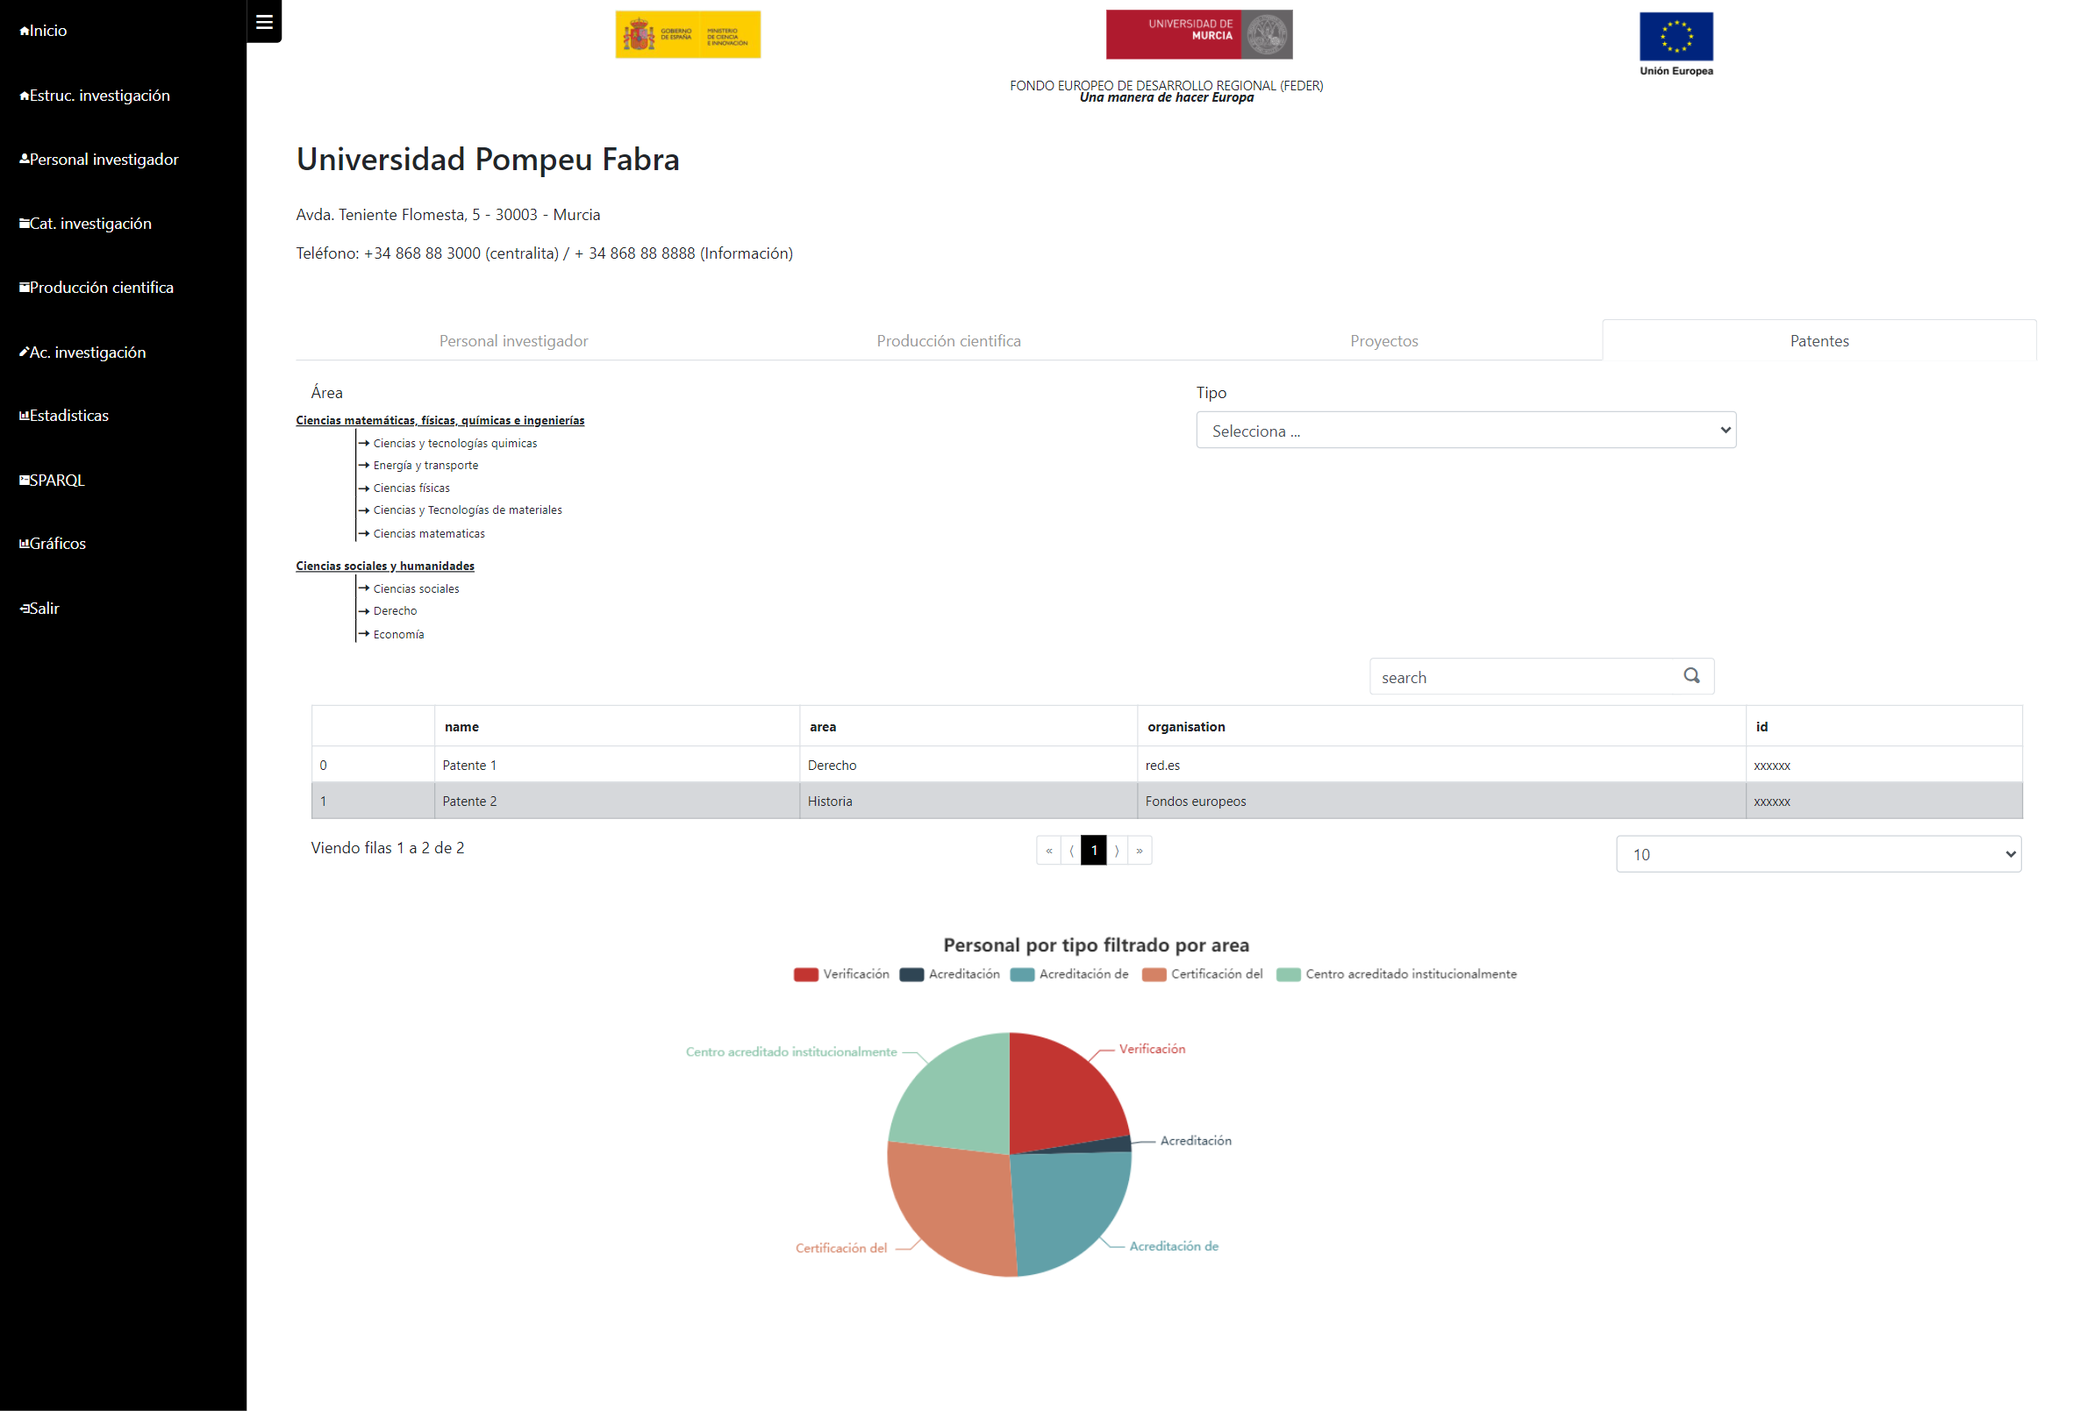
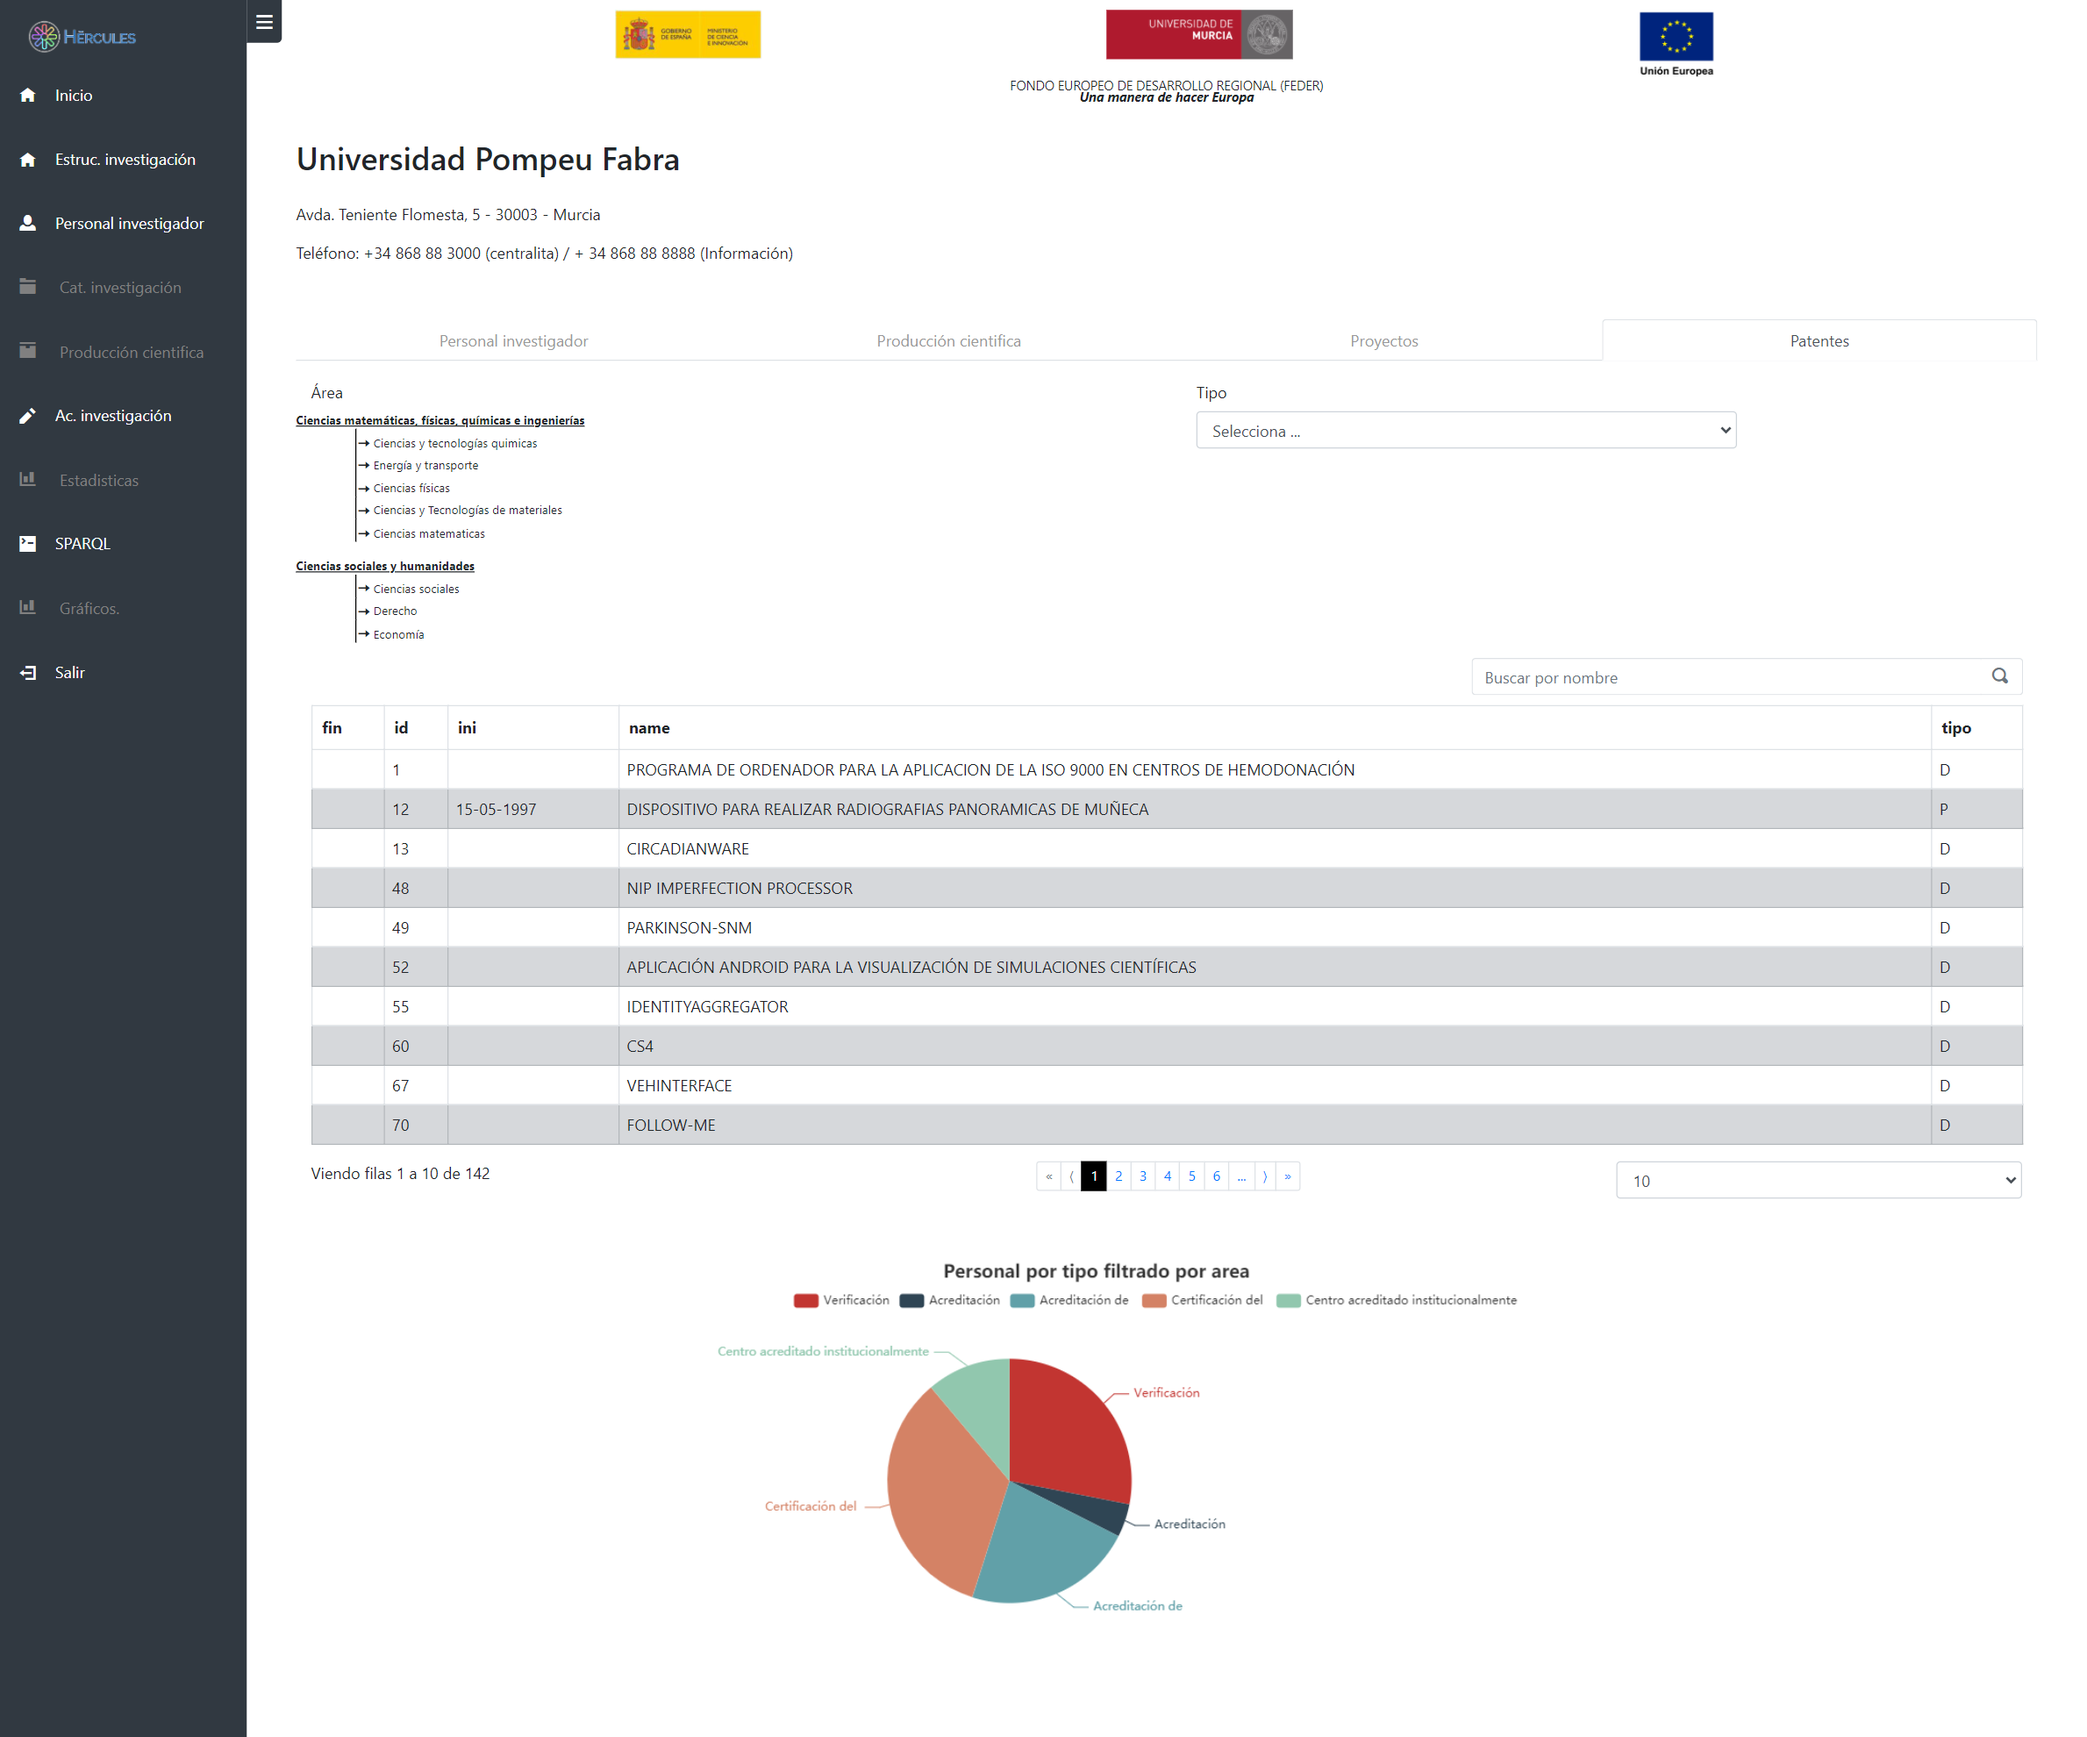
[SEMANTMURC-427] Actualizar docs con las nuevas capturas Capturas de pantallas de estructuras de investigación realizadas

diff --git a/00-Análisis/Diseño de pantallas/Categorías - pantallas reales.md b/00-Análisis/Diseño de pantallas/Categorías - pantallas reales.md
@@ -20,7 +20,9 @@
 Home
 ============
 
-El home de la web dispondrá de un menú superior con los accesos a las diferentes categorías y a la pantalla de consultas SparQL. También se mostrarán los iconos de login/acceso o la imagen del usuario identificado. 
+El home de la web dispondrá de un menú superior con los accesos a las diferentes categorías y a la pantalla de consultas SparQL. También se mostrarán los iconos de login/acceso o la imagen del usuario identificado. Las opciones que no estén funcionando, se mostrarán desactivadas en gris, tanto en el home como en el menú lateral.
+
+
 
 Dentro del propio Home se podrán ver:
 
@@ -57,6 +59,10 @@ Dentro del propio Home se podrán ver:
   - Renderización de metadatos de Named Graphs
   - Información sobre el proyecto Hércules+
   - Datos de contacto
+
+
+
+
 
 
 
